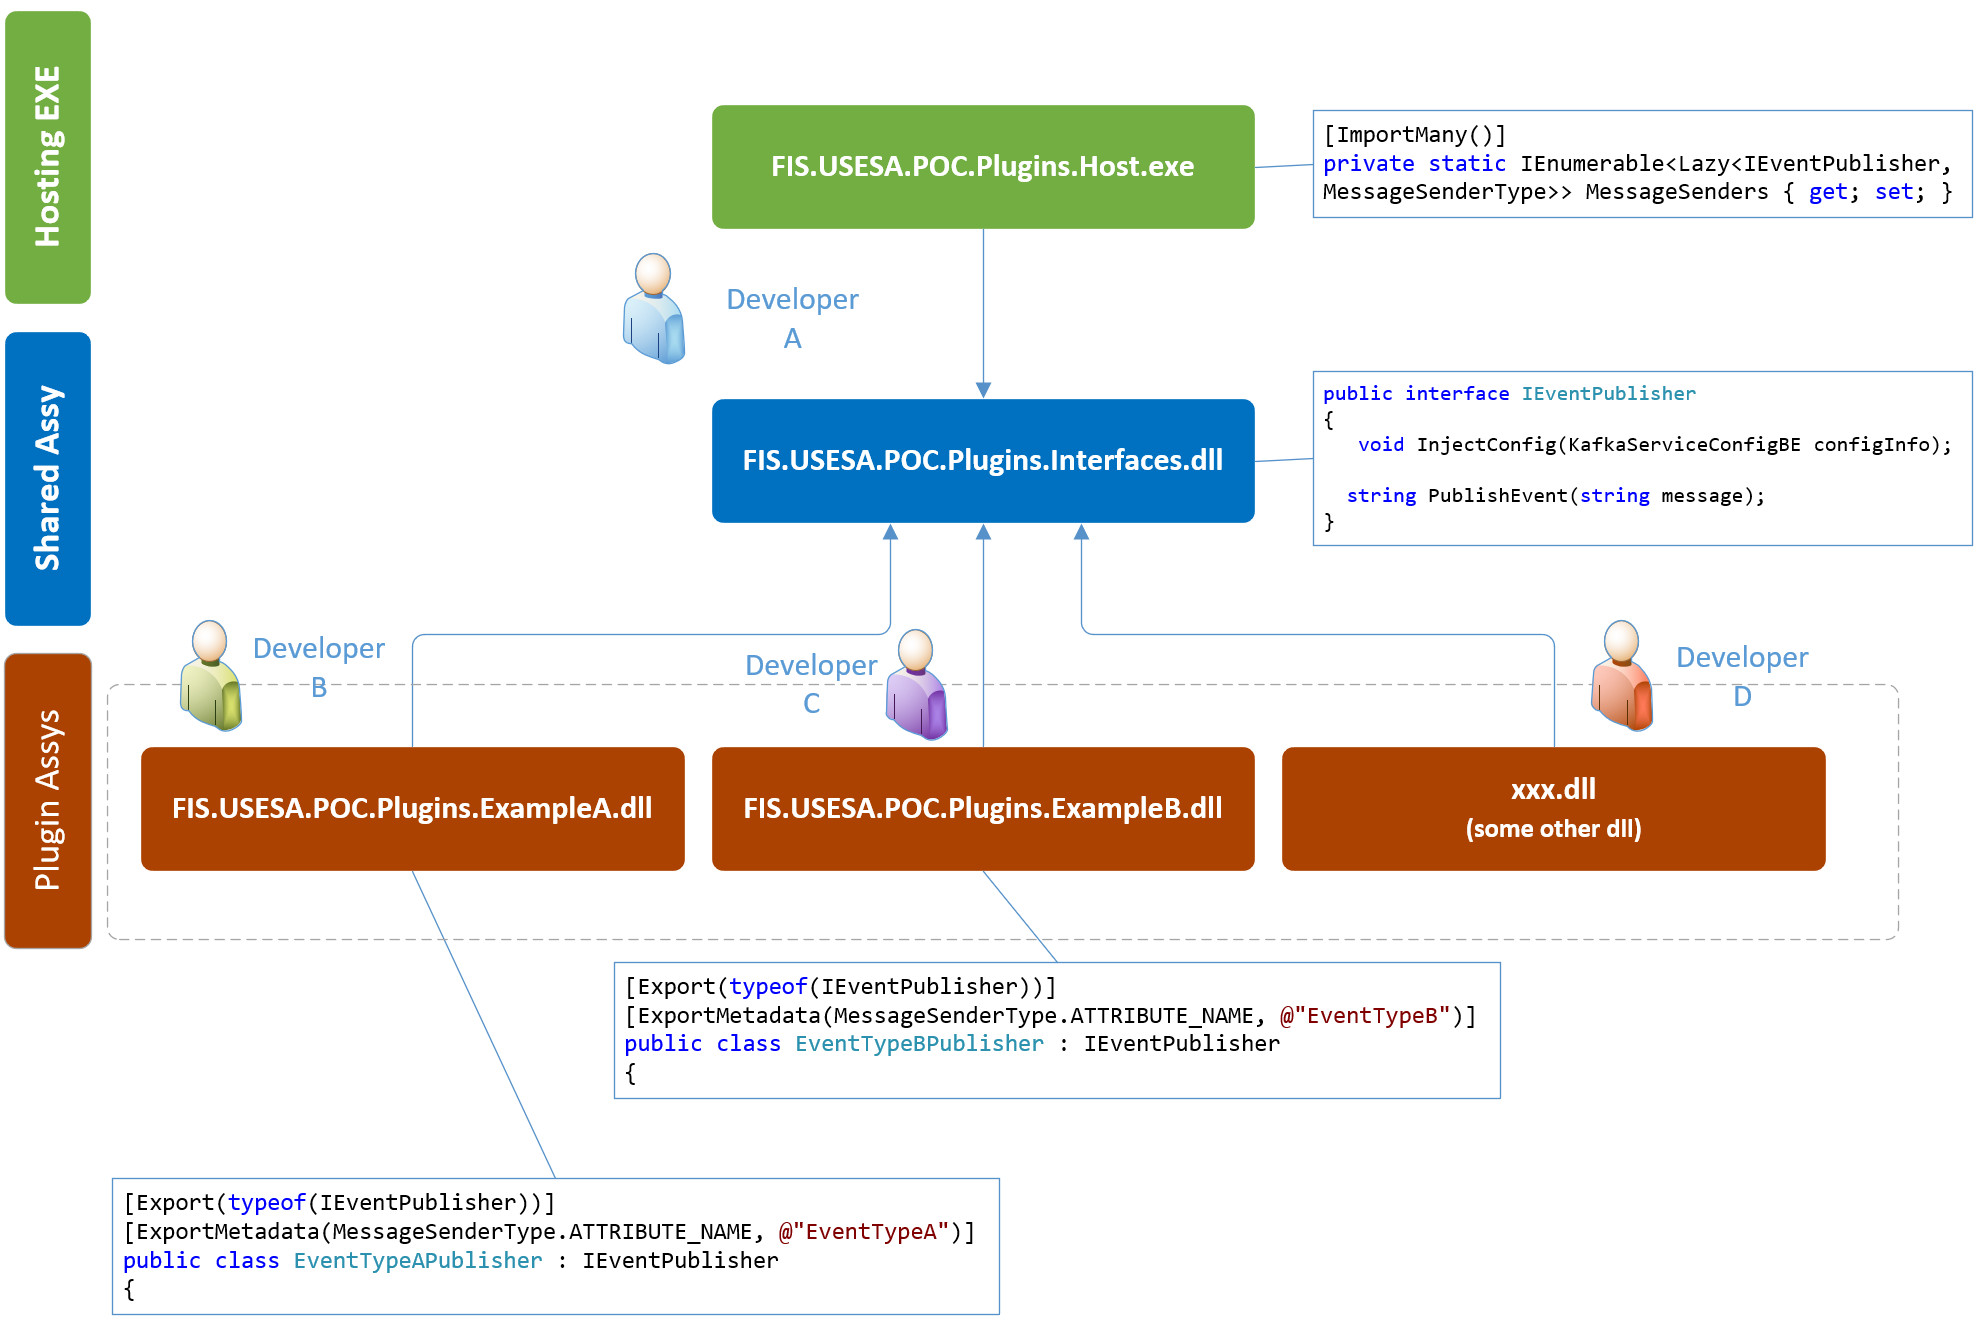
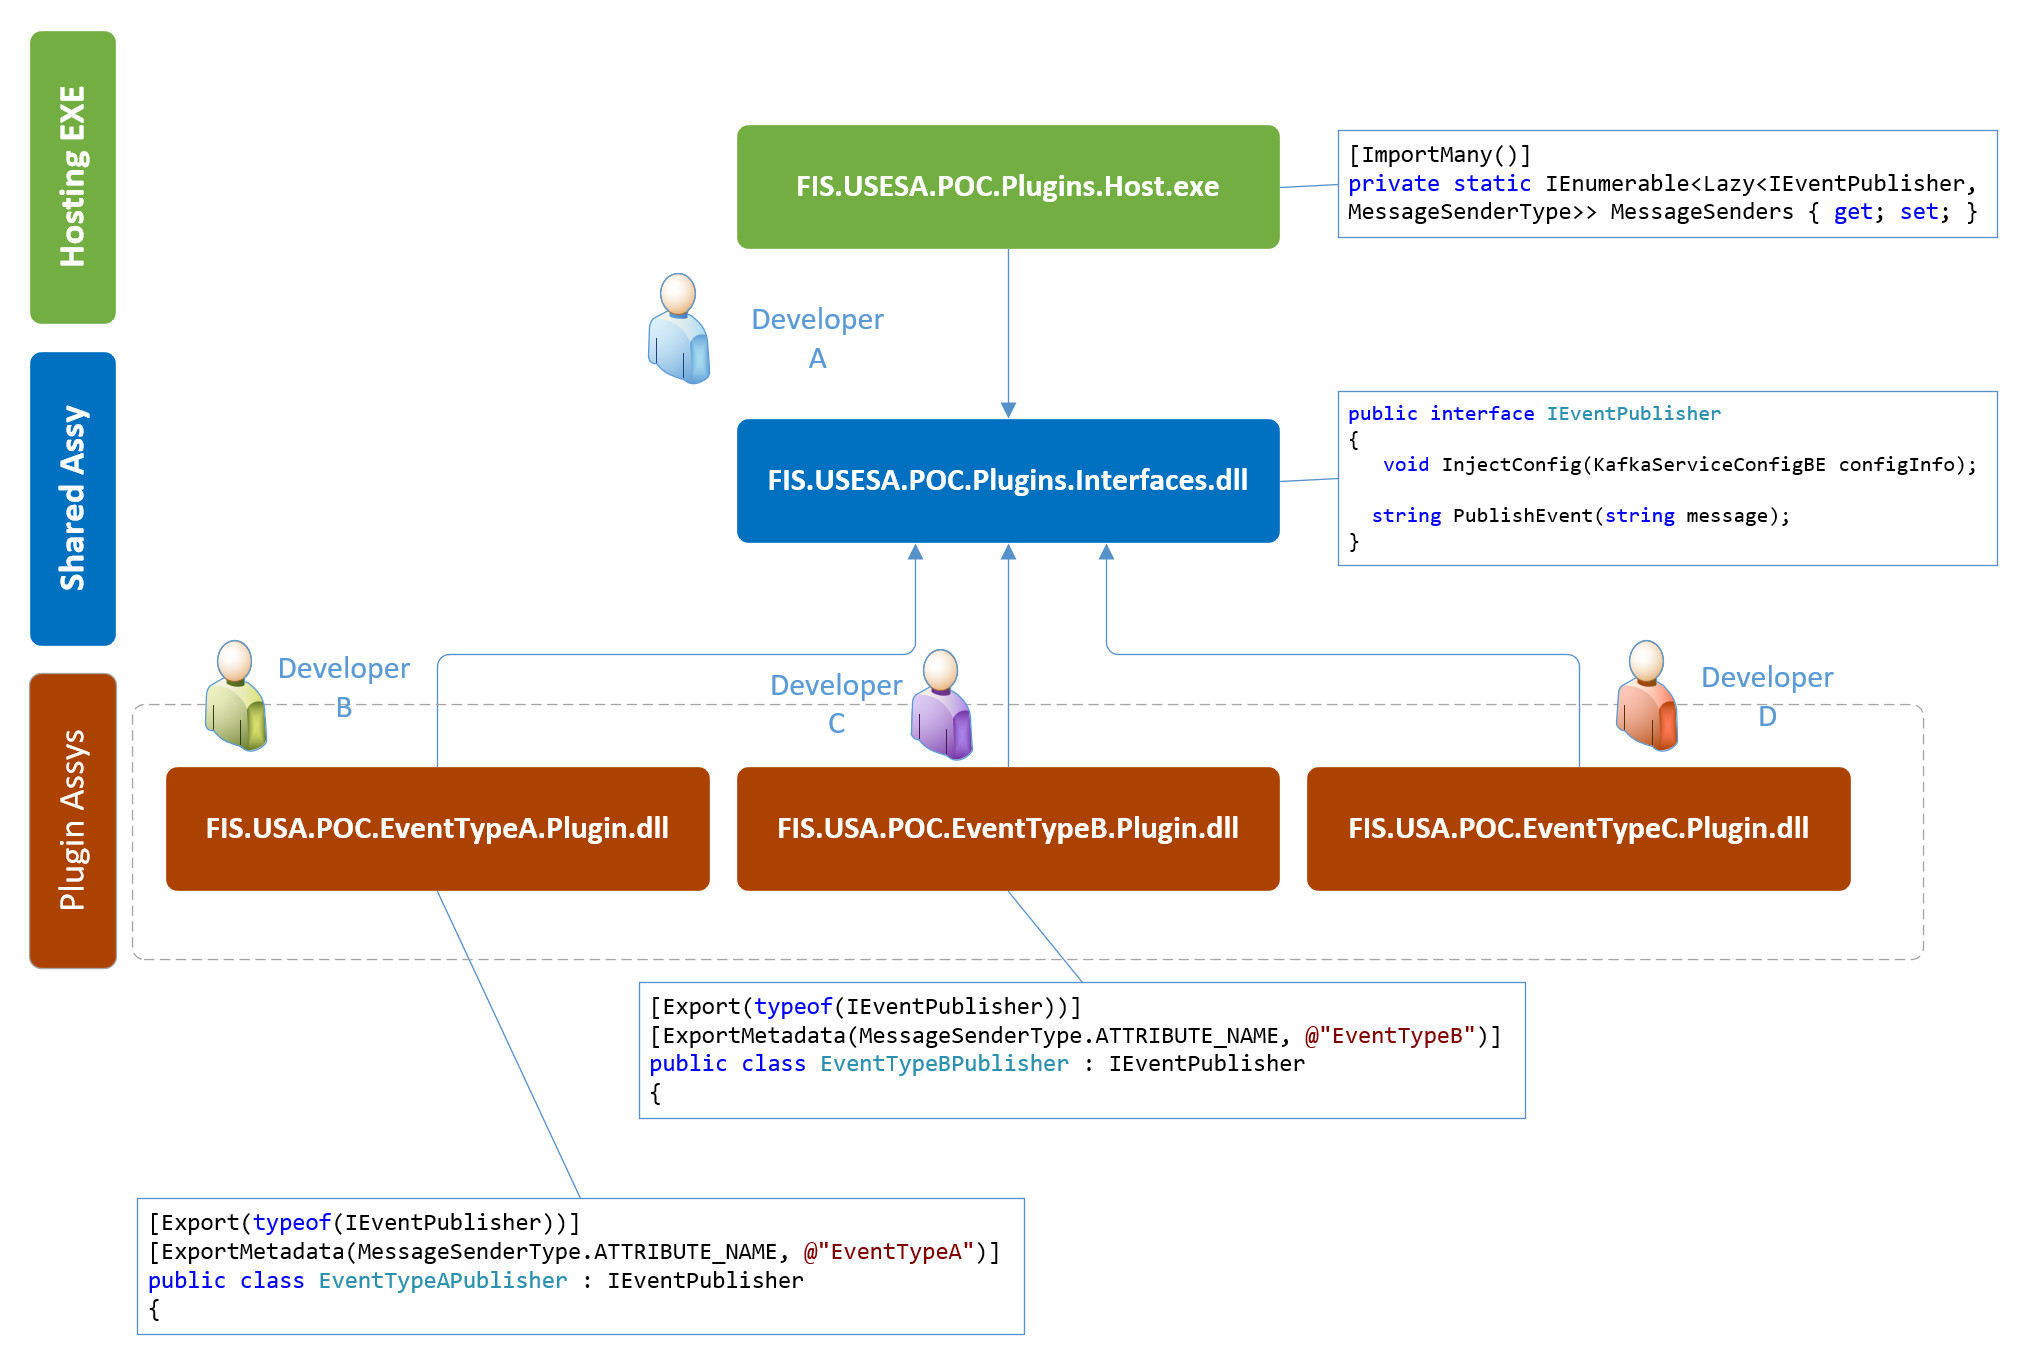
updated readme

diff --git a/README.md b/README.md
@@ -20,14 +20,79 @@ MEF takes advantage of an attribute based discovery mechanism to promote extensi
 ---
 ## Implementation
 
-There is no direct connection between the Hosting process and the plug-ins.  They both only reference a common assembly that defines an interface.
+The plug-ins are implemented as independent assemblies.  There is no direct connection between the Hosting process and the plug-ins.  They both only reference a common assembly that defines an interface.
 
 ![docker-compose up -d Screenshot](images/assemblies2.jpg?raw=true)
 
 > **Note**: No Compile time references between the hosting program and the plug-ins! 
 
-![docker-compose up -d Screenshot](images/solution2.jpg?raw=true)
+![docker-compose up -d Screenshot](images/solutionstructure.jpg?raw=true)
 
-At deployment time, all of the plug-in assemblies (dlls) are copied to a child folder that will be probed at start-up.
+At deployment (or post-build) time, all of the plug-in assemblies (dlls) are copied to unique subfolders under a parent folder that is probed at start-up.
 
-![docker-compose up -d Screenshot](images/folders.jpg?raw=true)
+![docker-compose up -d Screenshot](images/pluginfolders.jpg?raw=true)
+
+---
+## Building
+
+1. Do a rebuild all *(this makes sure there are no compile errors)*.
+2. In each of the plugin project folders *(this copies the plug-in assys to the **PlugInStaging** folder)*...  
+  .1 Open a command window  
+  .2 execute: `dotnet publish --runtime win-x64 --self-contained true`  
+  .3 execute: `dotnet build -target:CopyToStaging`  
+3. Build the Host.exe project *(this copies the plug-in folders to the exe's child folder)*
+---
+## Running
+
+Open a dos windows in the `\bin\Debug\netcoreapp3.1>` folder of each of the projects below and execute the associated exe:
+* FIS.USESA.POC.Plugins.Host.exe
+* FIS.USA.POC.EventTypeA.Consumer.exe
+* FIS.USA.POC.EventTypeB.Consumer.exe
+* FIS.USA.POC.EventTypeC.Consumer.exe
+
+Below you can see the results of starting each of the four (4) executables in their own window.
+
+
+![Running Screenshot](images/running.jpg?raw=true)
+
+---
+## Kafka Topics
+
+Each Event Type plug-in publishes to a unique Kafka Topic:
+
+![Running Screenshot](images/kafkatopics.jpg?raw=true)
+
+* The topic name is defined in the Event Type publisher
+```csharp
+[Export(typeof(IEventPublisher))]
+[ExportMetadata(MessageSenderType.ATTRIBUTE_NAME, @"EventTypeC")]
+public class EventTypeCPublisher : IEventPublisher
+{
+    public static readonly string TOPIC_NAME = @"EVENT_TYPE_C_TOPIC";
+```
+## Kafka Consumer Groups
+Each Event Type subscriber has a unique Kafka Consumer Group.
+
+![Running Screenshot](images/kafkaconsumergroups.jpg?raw=true)
+
+* The consumer group name is defined in the Event Type publisher:
+
+```csharp
+namespace FIS.USA.POC.EventTypeC.Consumer
+{
+    /// <summary>
+    /// This is an example topic consumer.
+    /// </summary>
+    class Program
+    {
+        private const string CONSUMER_GROUP_NAME = @"EVENT_TYPE_C_CONSUMER_GROUP";
+```
+---
+## Plug-in csproj changes
+
+Each plug-in csproj needs to have the following changes:
+
+![Running Screenshot](images/plugincsprojchgs.jpg?raw=true)
+
+1. Configure so the publish command will copy all of the nuget package assemblies AND any unmanaged assemblies they reference.
+2. Filter the build output and copy to a unique folder under .\PluginsStaging\\\<project-name>
